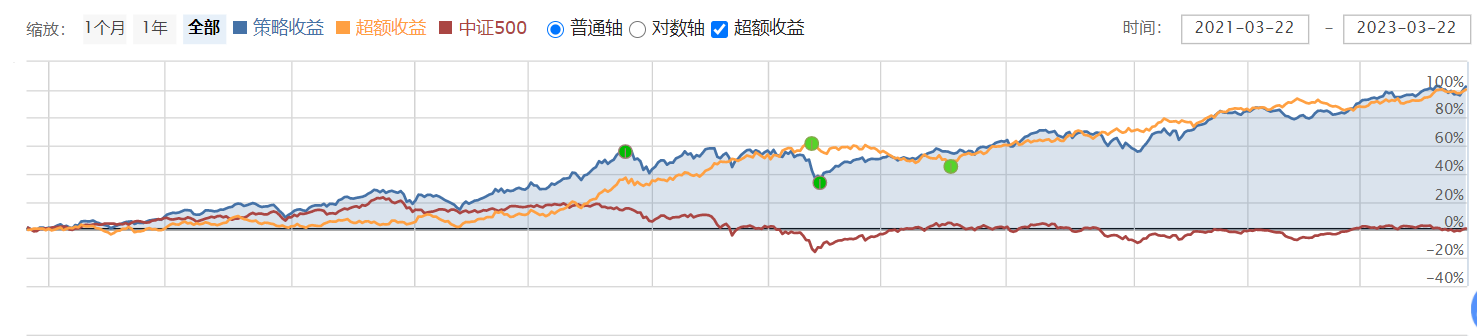
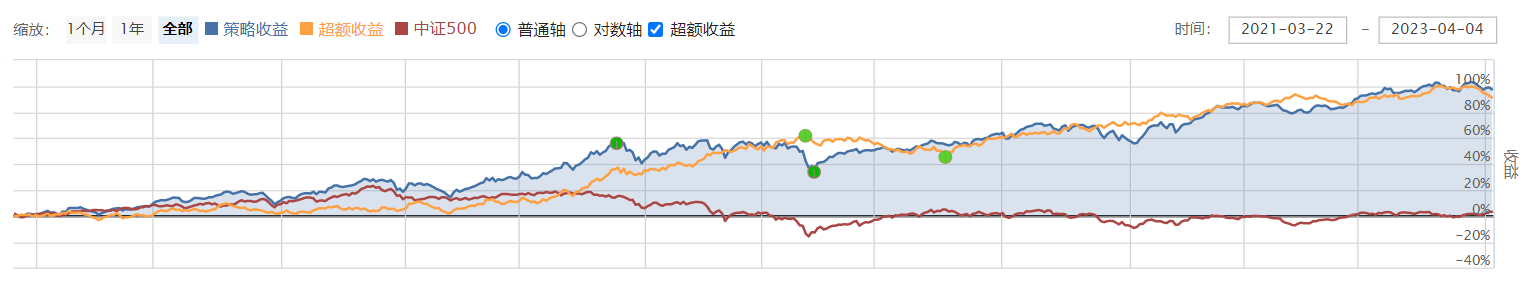
update strategy performance

diff --git a/mynote/investment.md b/mynote/investment.md
@@ -8,7 +8,7 @@
   - 个人成长：量化对知识需求比较多，数学、统计、编程、机器学习，就算没搞好，下限也就是买入持有benchmark；而且一身竞争力。
   - 归因分析：可以快速生成自己持仓的行业暴露、市值偏好等，方便与基准进行对比，找出自己优缺点。
   
-策略战绩：两年时间（2021-03-22至2023-03-22），交易胜率0.705，夏普比率2.03，对中证500超额收益100.22%，实盘应用于基金产品  
+策略战绩(每周更新)：（2021-03-22至2023-04-08），交易胜率0.704，夏普比率1.907，对中证500超额收益97.57%  
 
 <div align=center style="width:80%">
 <img src="../imgs/strategy.png" />
